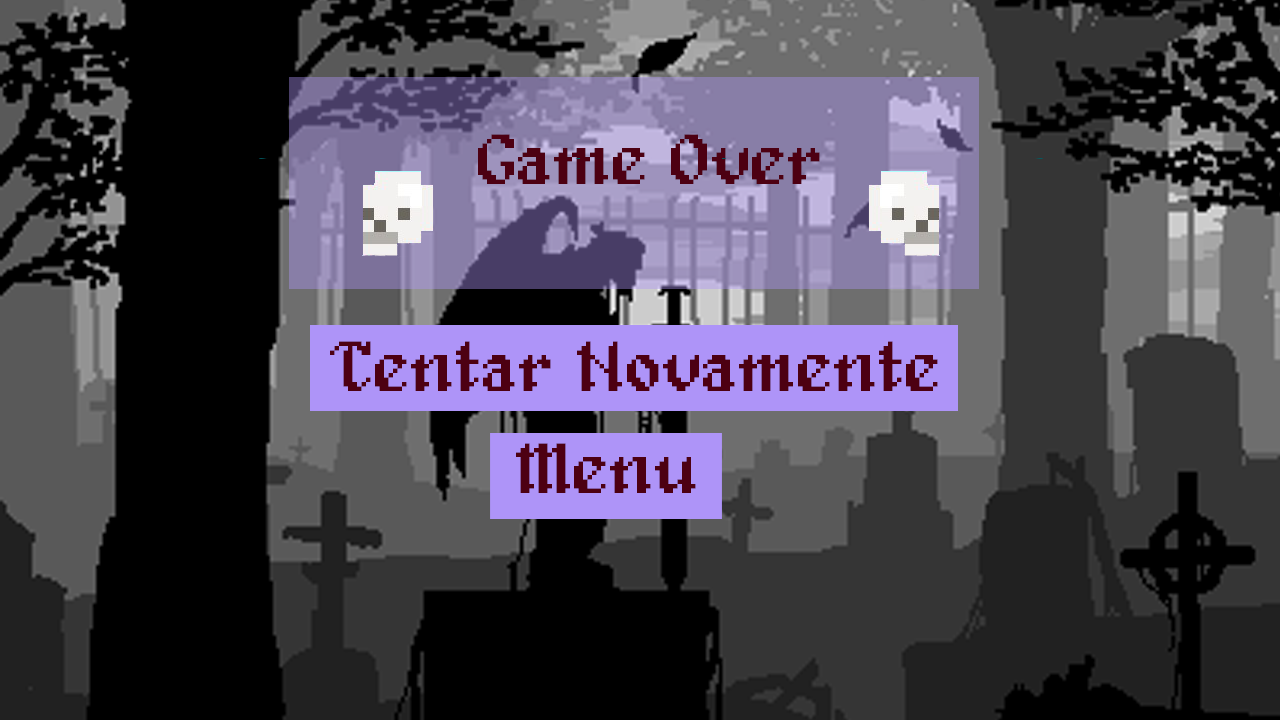
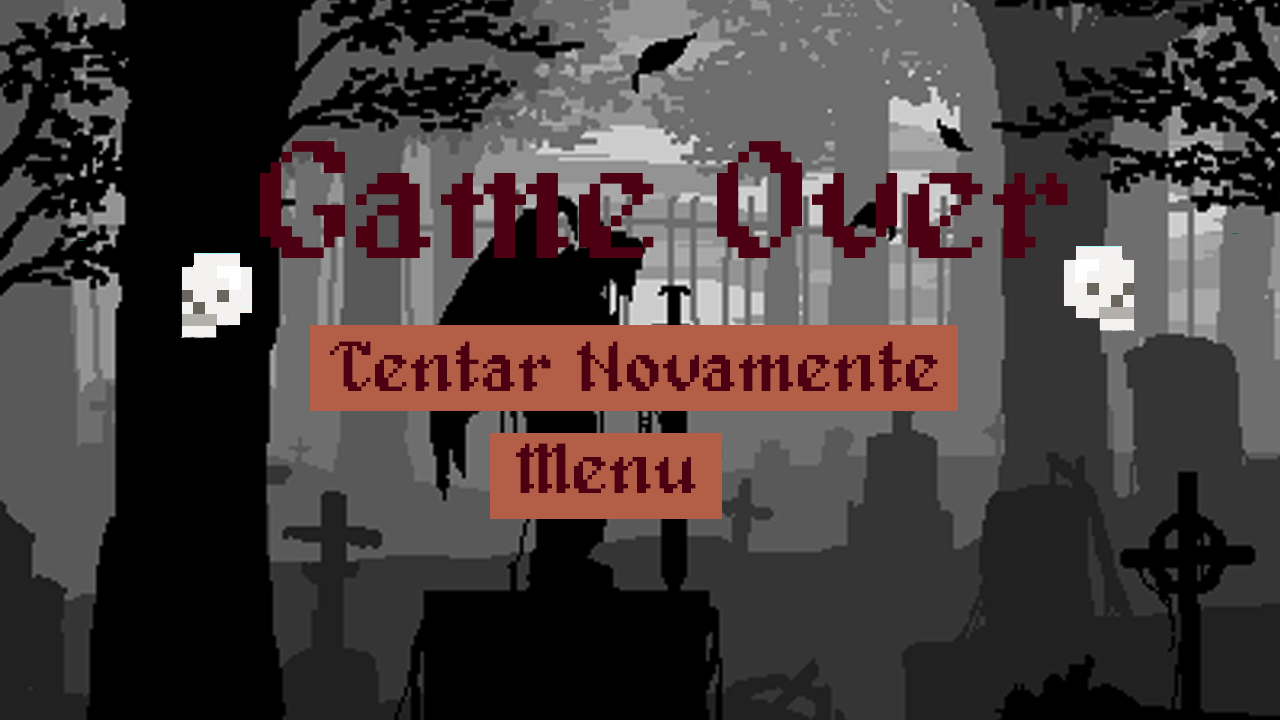
Background tela HighScore

Changed region(s): [[0.125, 0.0917, 0.9062, 0.7333]]

diff --git a/versao_final/States/HighScoreState.py b/versao_final/States/HighScoreState.py
@@ -8,7 +8,7 @@ class HighScoreState(AbstractState):
         AbstractState.__init__(self)
         self.score_controller = score_controller
 
-        self.background = get_image('telas', 'TelaVitoria.png')
+        self.background = get_image('telas', 'TelaHighScore.png')
         self.background = pg.transform.smoothscale(self.background, (1280, 700))       
         self.rect_menu = pg.Rect(60, 560, 500, 125)
         #self.text_menu = menu_font.render('Retornar ao menu', True, (0, 0, 0))

diff --git a/versao_final/Rooms/Room7.py b/versao_final/Rooms/Room7.py
@@ -34,7 +34,7 @@ class Room7(AbstractRoom):
         self.entities['objects'].append(Wardrobe3((330, 310)))
         self.entities['objects'].append(SideDoor((1150, 480), 7))
         self.entities['objects'].append(Piano((820, 329)))
-        self.entities['objects'].append(Table((702, 429)))
+        #self.entities['objects'].append(Table((702, 429)))
         
         
         return self.entities

diff --git a/versao_final/Rooms/Room6.py b/versao_final/Rooms/Room6.py
@@ -35,7 +35,7 @@ class Room6(AbstractRoom):
         self.entities['objects'].append(Bed((520, 350)))
         self.entities['objects'].append(Door((700, 287), 6))
         self.entities['objects'].append(Piano((820, 329)))
-        self.entities['objects'].append(Table((802, 529)))
+        #self.entities['objects'].append(Table((802, 529)))
         
         
         return self.entities
